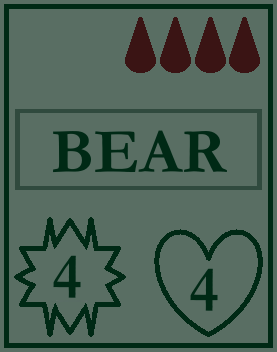
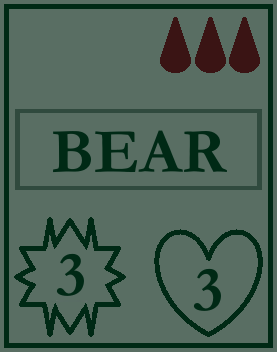
Minor adjustments to UI and added final common cards.

Changed region(s): [[0.4332, 0.0312, 0.5776, 0.2188], [0.6931, 0.75, 0.8087, 0.9062], [0.1733, 0.7188, 0.3177, 0.8438]]

diff --git a/src/main/java/dtu/master_of_creatures/utilities/enums/CommonCardTypes.java b/src/main/java/dtu/master_of_creatures/utilities/enums/CommonCardTypes.java
@@ -4,22 +4,21 @@ public enum CommonCardTypes
 {
     // Health, attack, cost
     RABBIT(1, 0, 0),
+    LAMB(2, 0, 0),
     RAT(1,1,1),
     WOLF(2, 3, 2),
-    WOLF_CUB(1,1,1),
     STOAT(2,1,1),
-    DOE(3,1,1),
     DEER(3,2,2),
     COYOTE(1,2,1),
     BADGER(2,3,2),
     FOX(1,1,1),
-    SHARK(2,4,4),
+    SHARK(2,4,3),
     HORSE(3,2,2),
     CAT(2,1,1),
     HAWK(3,2,2),
     GOAT(2,2,1),
     SPARROW(1,2,1),
-    BEAR(4,4,4),
+    BEAR(3,3,3),
     LIZARD(2,1,1),
     TOAD(2,1,1),
     SNAKE(1,3,2),
@@ -28,13 +27,18 @@ public enum CommonCardTypes
     BEE(1,1,1),
     PRAYING_MANTIS(1,2,1),
     PORCUPINE(2,1,1),
-    ANT_QUEEN(3,2,2),
     ANT(2,1,1),
     BAT(1,2,1),
     OPOSSUM(1,1,1),
     TORTOISE(4,1,2),
     BLOODHOUND(2,2,2),
-    VULTURE(3,3,3);
+    VULTURE(2,3,2),
+    HIPPOPOTAMUS(4, 4, 4),
+    TIGER(3, 4, 3),
+    MOSQUITO(1, 3, 1),
+    ELEPHANT(4, 2, 3),
+    PANDA(4, 0, 2),
+    CROCODILE(3, 2, 3);
 
     private final int health;
     private final int attack;

diff --git a/src/main/java/dtu/master_of_creatures/controllers/MenuController.java b/src/main/java/dtu/master_of_creatures/controllers/MenuController.java
@@ -10,6 +10,7 @@ import java.util.ResourceBundle;
 import java.io.IOException;
 
 // JavaFX libraries
+import javafx.application.Platform;
 import javafx.fxml.Initializable;
 import javafx.fxml.FXML;
 import javafx.scene.control.Button;
@@ -49,5 +50,10 @@ public class MenuController extends SceneController implements Initializable
     public void joinGame() throws IOException // for joining player
     {
         goToJoinPregameScene();
+    }
+
+    public void quitApplication()
+    {
+        Platform.exit();
     }
 }

diff --git a/src/main/java/dtu/master_of_creatures/controllers/SceneController.java b/src/main/java/dtu/master_of_creatures/controllers/SceneController.java
@@ -107,7 +107,7 @@ public abstract class SceneController
      */
     public int convertRowColumnToGridIndex(int row_to_convert, int column_to_convert)
     {
-        return (row_to_convert * 8) + column_to_convert;
+        return (row_to_convert * 12) + column_to_convert;
     }
 
     /////////////////////////
